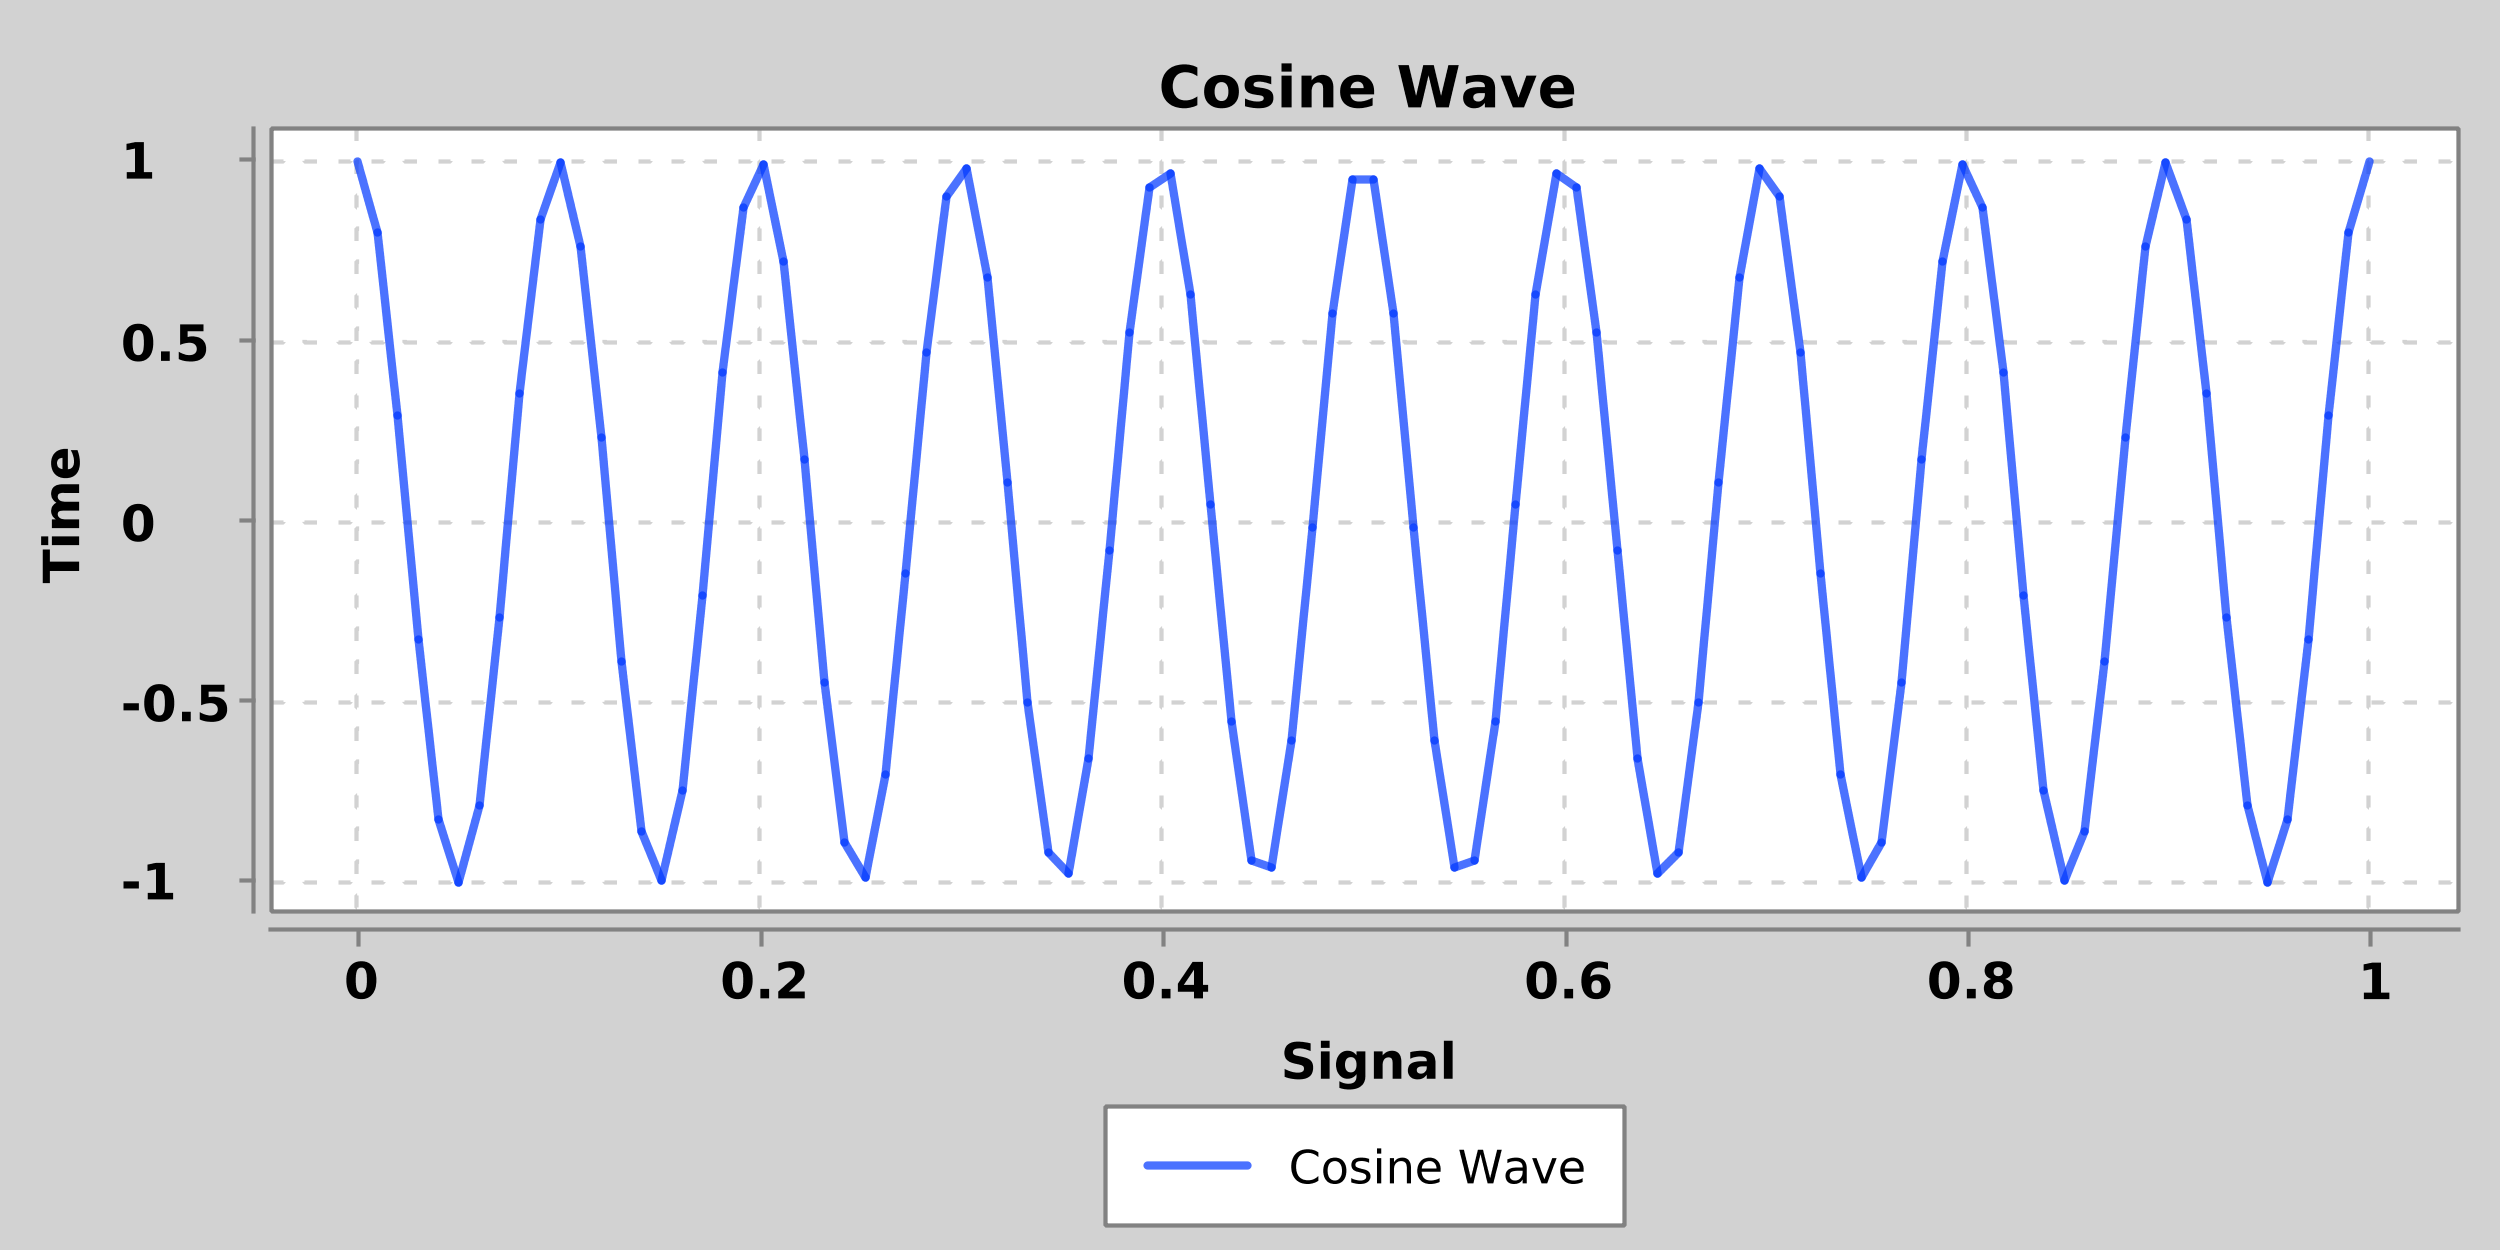
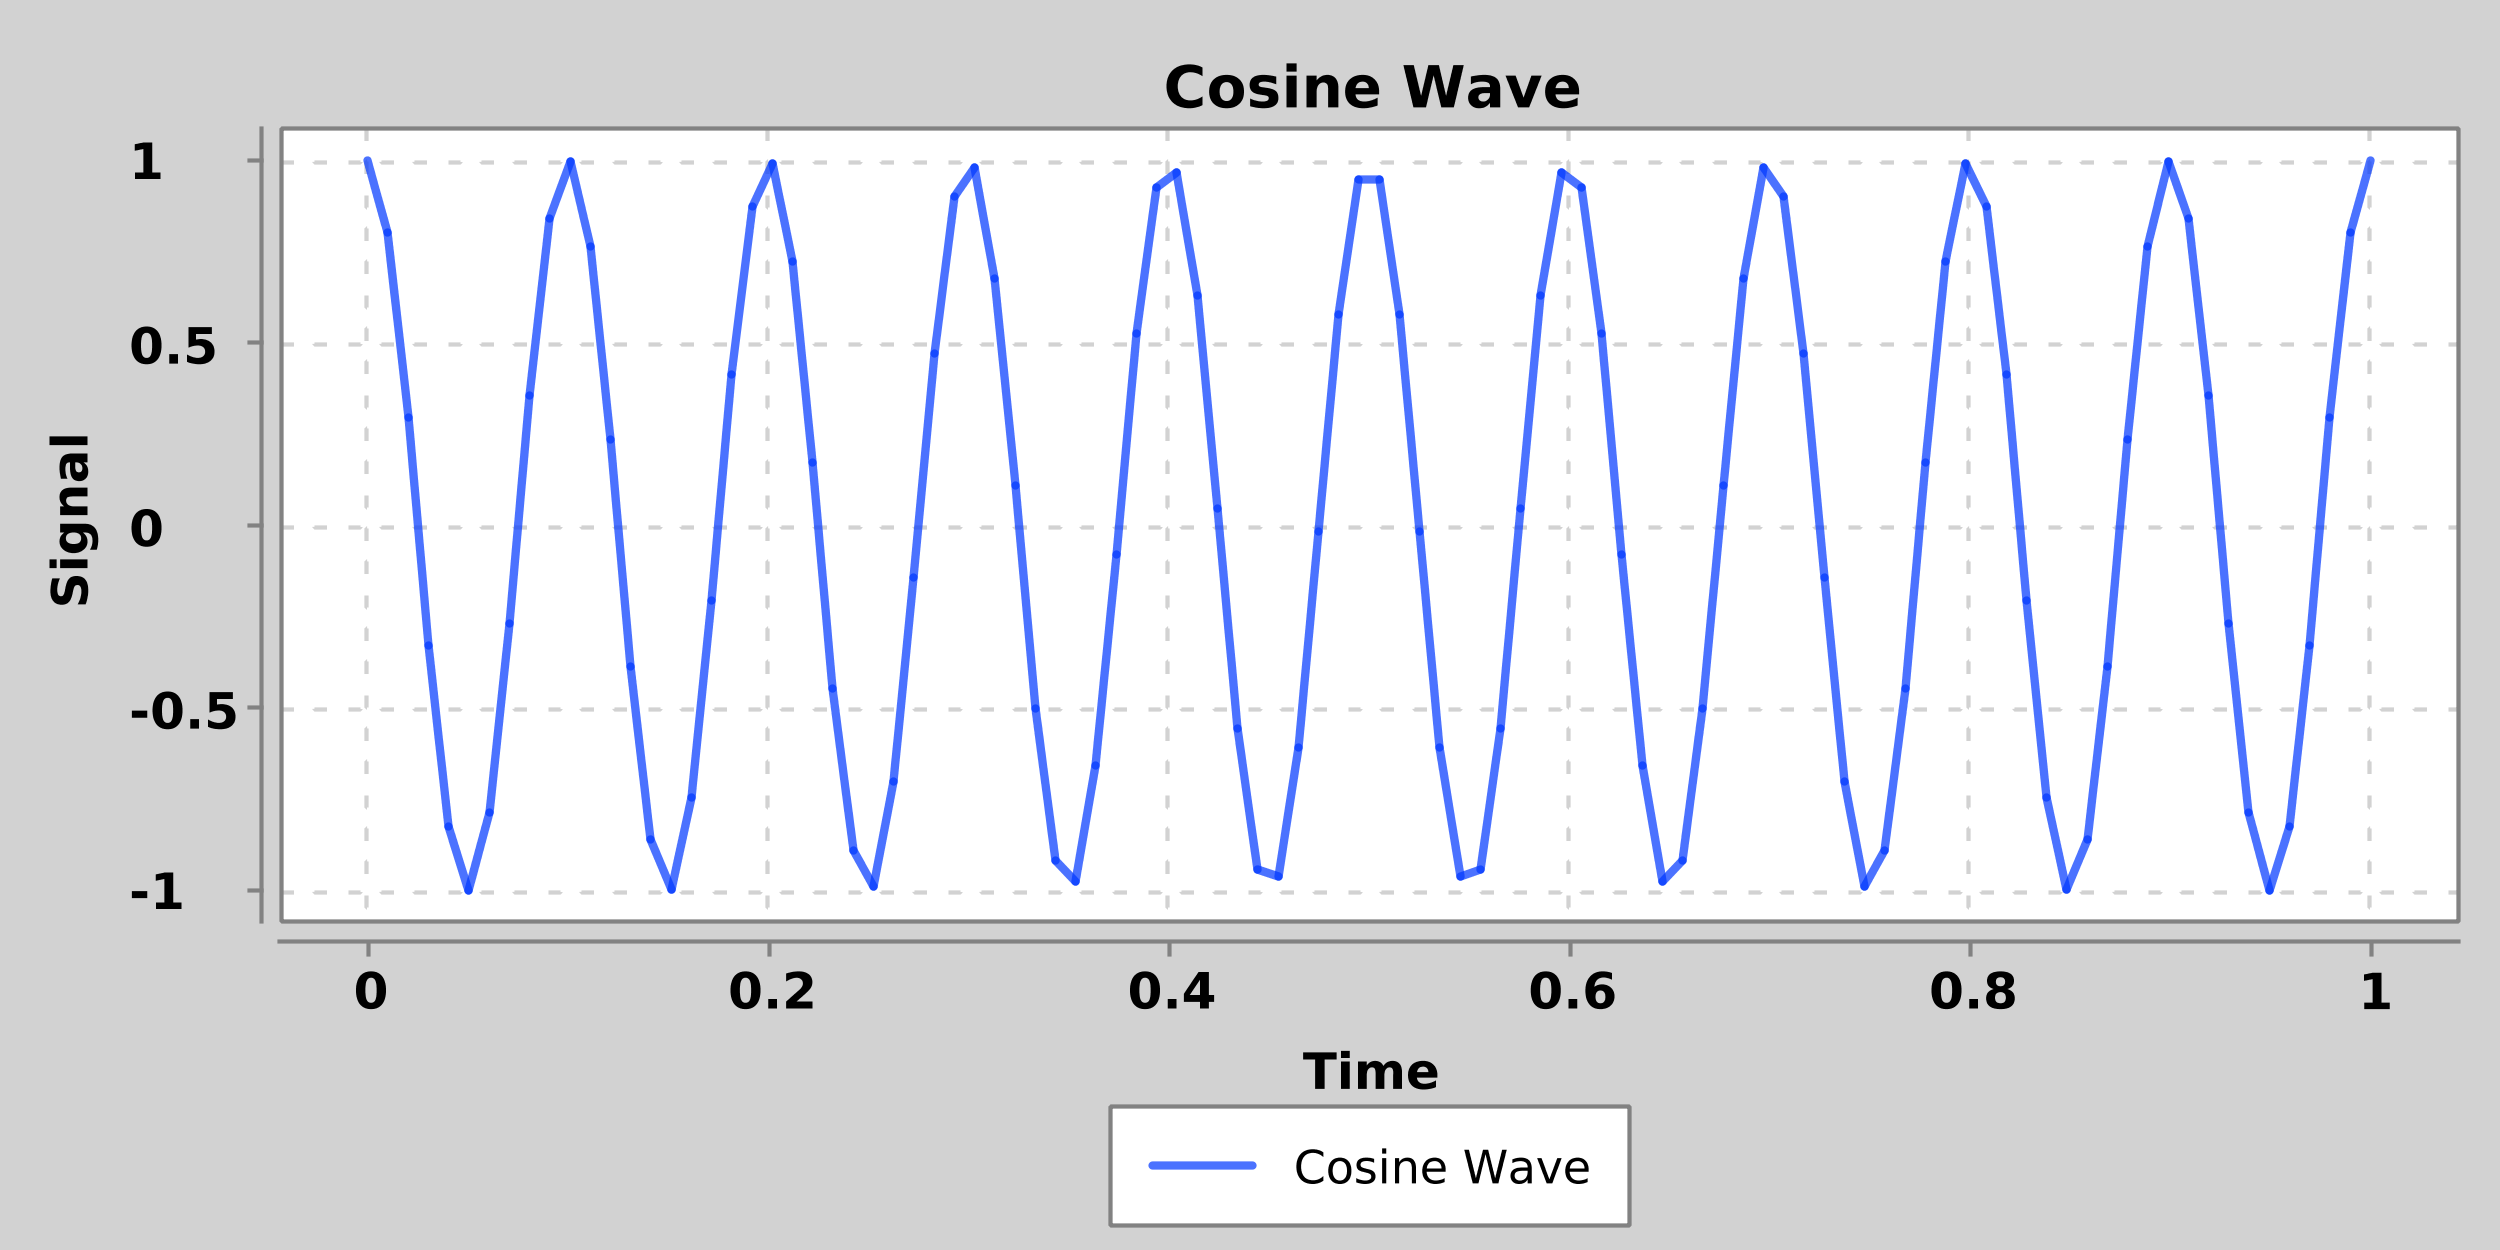
Rectified generate wiki images

diff --git a/src/test/java/com/github/psambit9791/jdsp/TestGenerate.java b/src/test/java/com/github/psambit9791/jdsp/TestGenerate.java
@@ -94,7 +94,7 @@ public class TestGenerate {
     }
 
     public void plot_now(String title, double[] t, double[] signal, String fname) throws IOException {
-        LinePlot fig = new LinePlot(600, 300, title, "Signal", "Time");
+        LinePlot fig = new LinePlot(600, 300, title, "Time", "Signal");
         fig.initialise_plot();
         fig.add_signal(title, t, signal, false);
         fig.save_as_png(fname);
